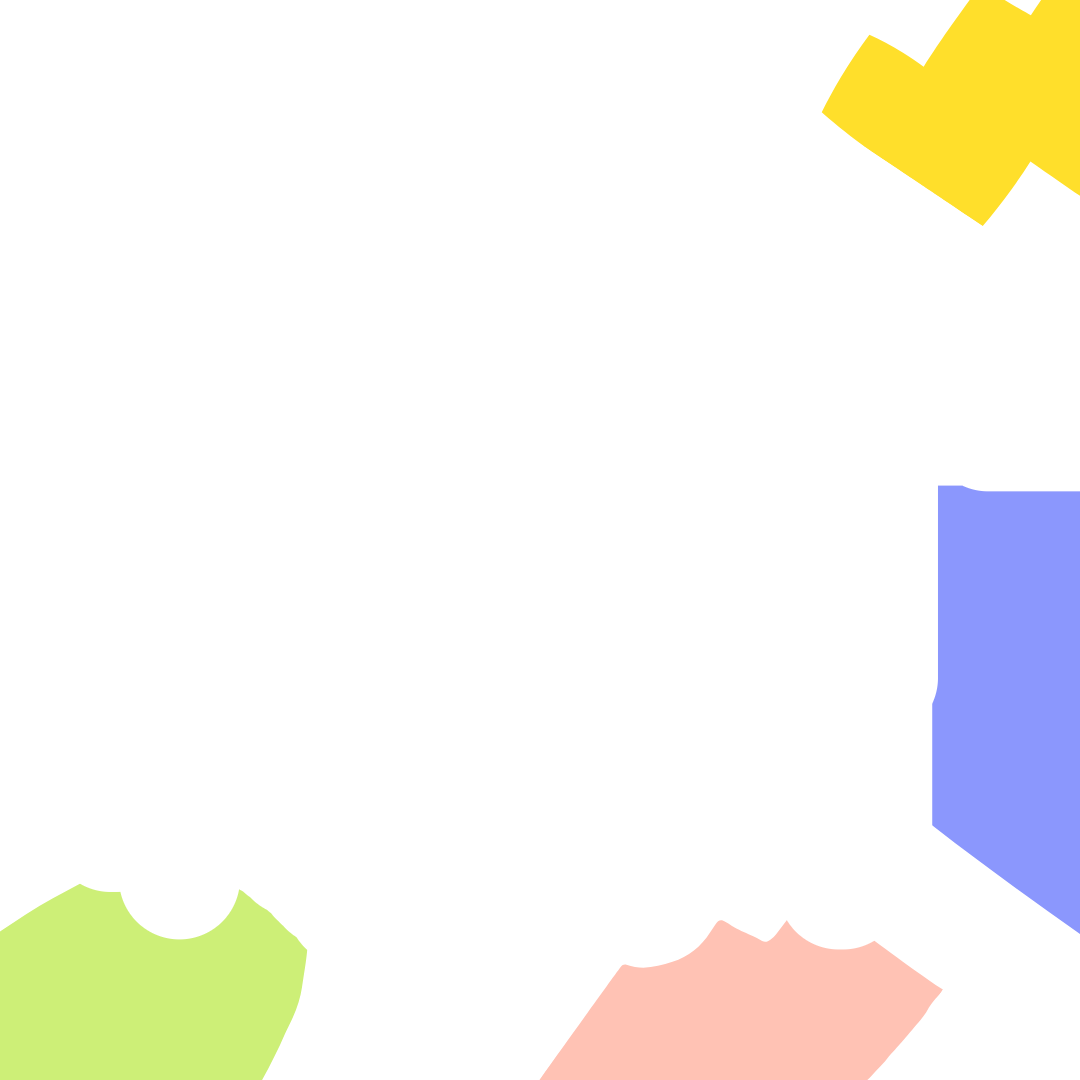
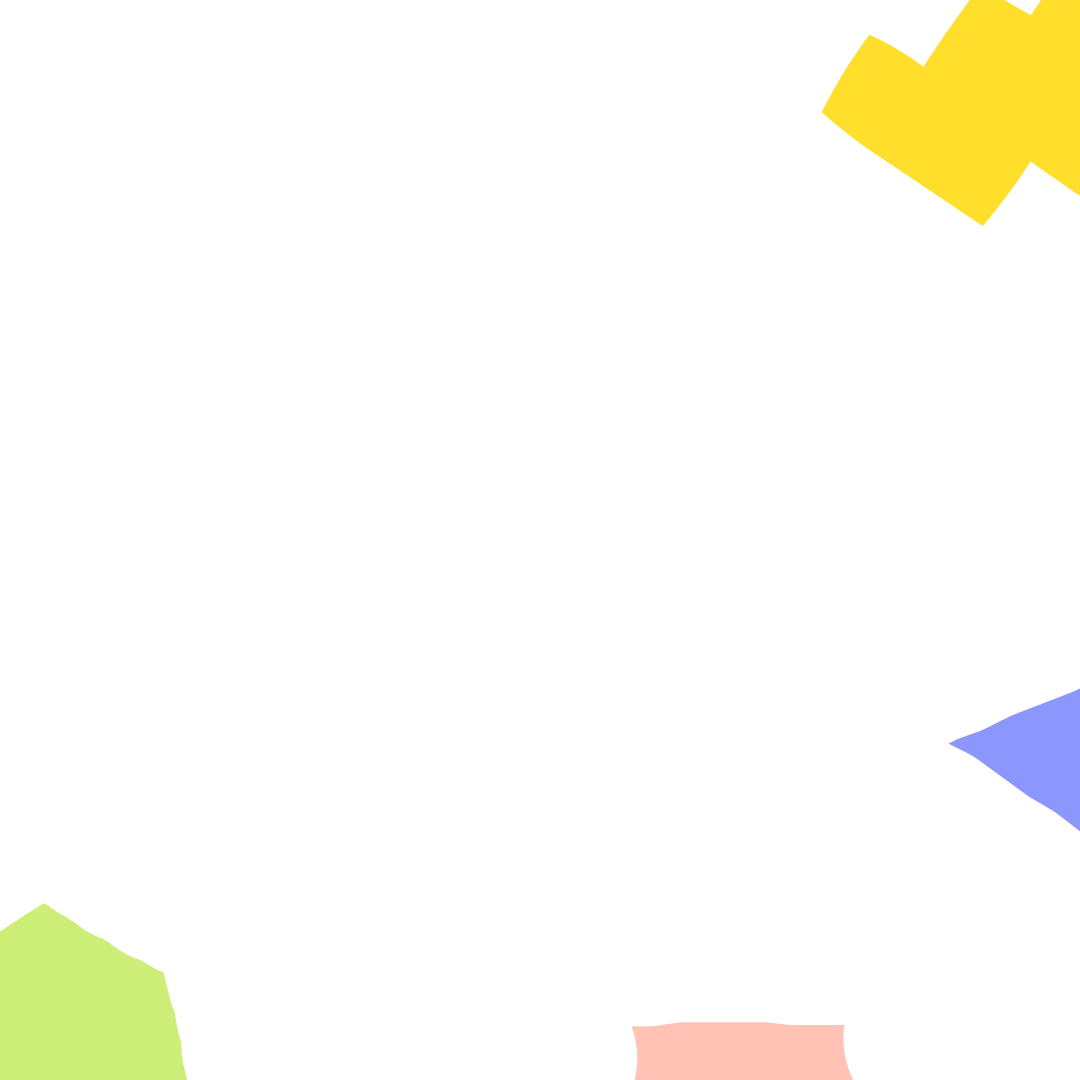
remove background image from signIn form

Changed region(s): [[0.8556, 0.4278, 1.0, 0.8556], [0.4889, 0.8556, 0.8861, 1.0], [0.0306, 0.7944, 0.3056, 1.0]]

diff --git a/src/pages/SignIn/styles.ts b/src/pages/SignIn/styles.ts
@@ -6,6 +6,7 @@ export const Container = styled.div`
 	flex-direction: column;
 	justify-content: center;
 	align-items: center;
+	background: #aacaff;
 
 	height: 100vh;
 	p {
@@ -22,12 +23,13 @@ export const SignIn = styled.div`
 	height: 50rem;
 	border-radius: 1rem;
 	background: white;
+	overflow: hidden;
 	//?shadow
-	box-shadow: 0 4px 20px 0 rgba(0, 0, 0, 0.2);
+	box-shadow: 0 10px 30px 0 rgba(0, 0, 0, 0.3);
 	transition: 0.3s;
 
 	&:hover {
-		box-shadow: 0 10px 30px 0 rgba(0, 0, 0, 0.2);
+		box-shadow: 0 20px 40px 0 rgba(0, 0, 0, 0.3);
 	}
 
 	@media (max-width: 768px) {
@@ -70,10 +72,13 @@ export const Form = styled.div`
 	flex-direction: column;
 	justify-content: center;
 	align-items: center;
-	background: url(${backgroundImg}) no-repeat;
-	background-size: contain;
-	background-position: center;
+	//background: url(${backgroundImg}) no-repeat;
+	//background-size: contain;
+	//background-position: center;
 	//border: 1px solid green;
+	//	border-radius: 1rem;
+	//background: #aacaff;
+
 	width: 50%;
 	height: inherit;
 	p {
